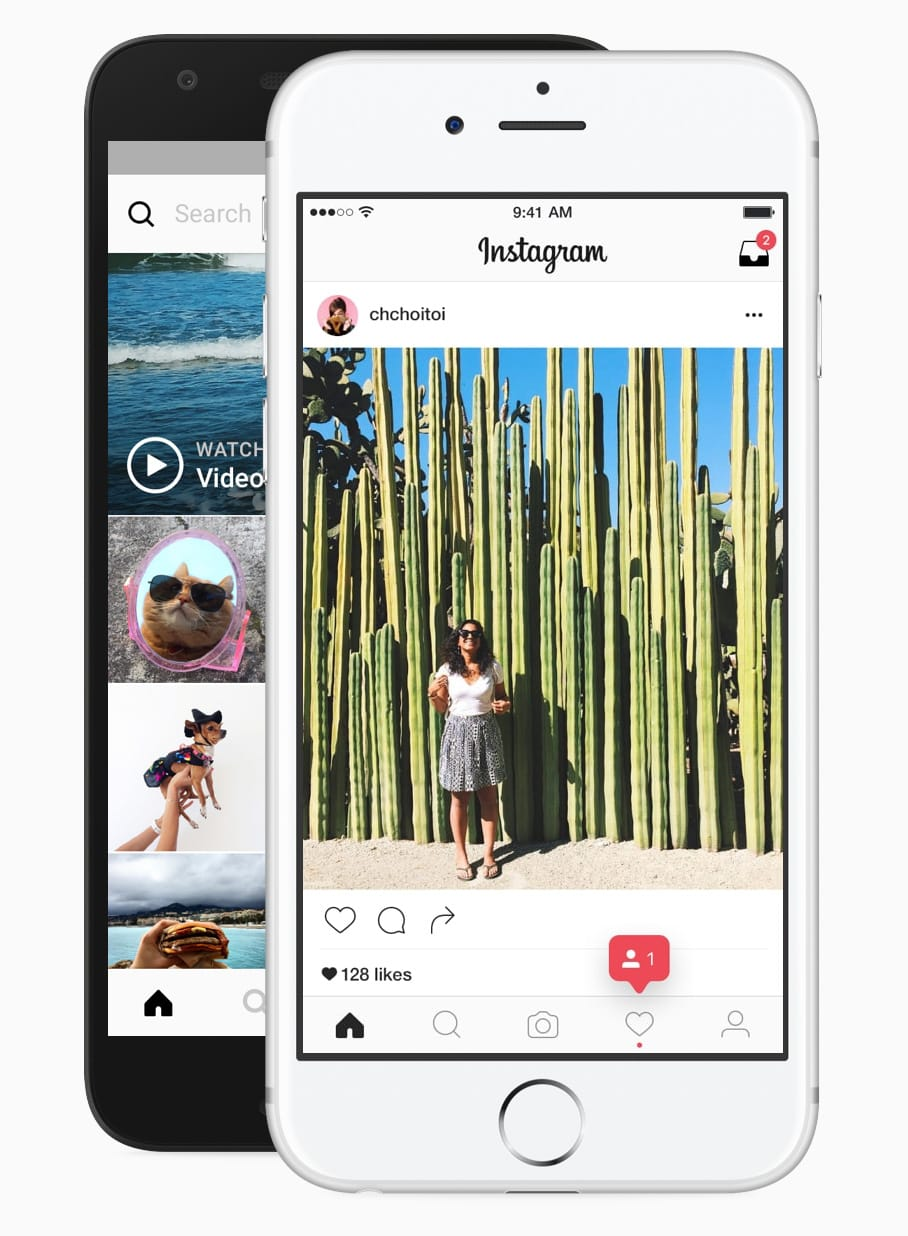
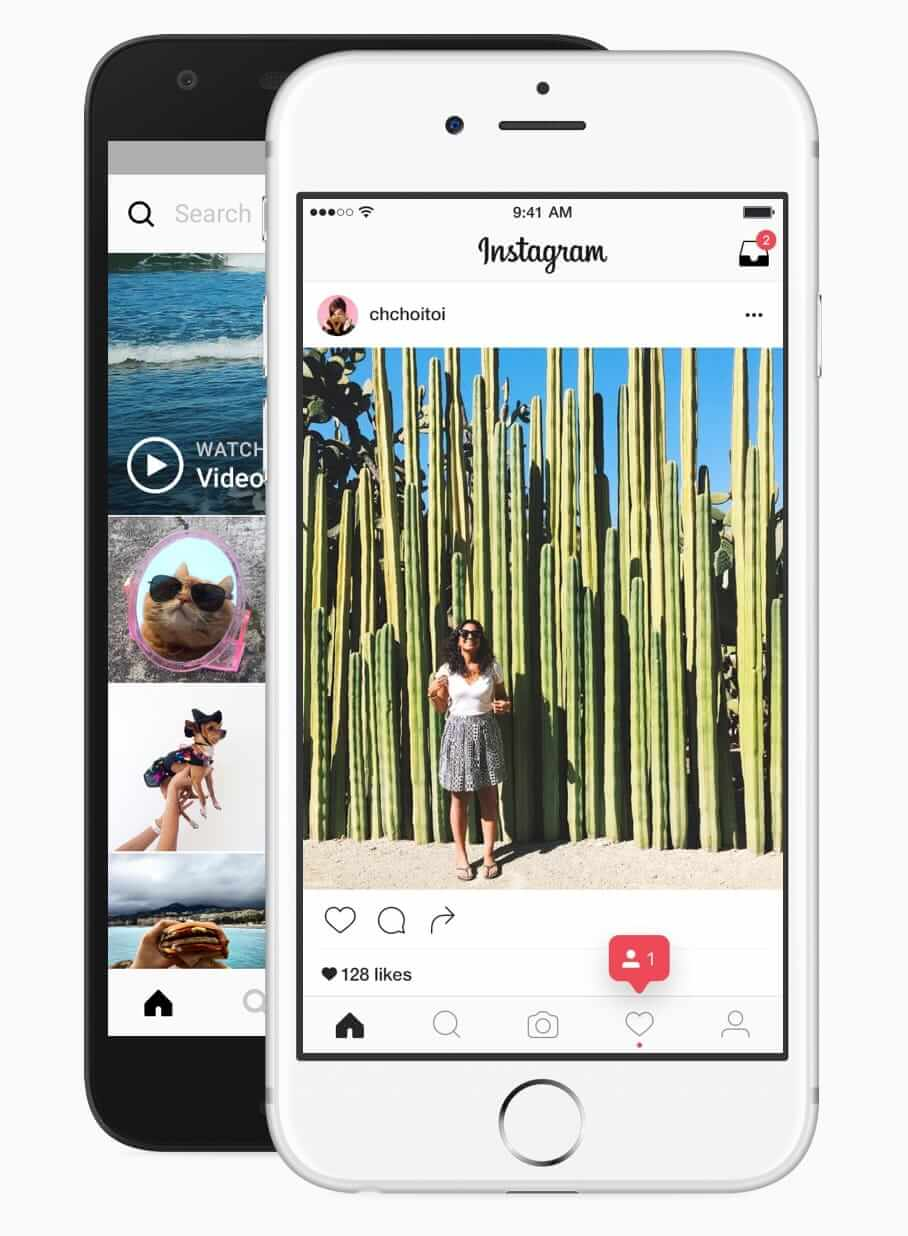
Optimize phone image and add loadtest

diff --git a/src/components/post/add-comment.js b/src/components/post/add-comment.js
@@ -13,7 +13,7 @@ export default function AddComment({ docId, comments, setComments, commentInput 
   const handleSubmitComment = (event) => {
     event.preventDefault();
 
-    setComments([{ displayName, comment }, ...comments]);
+    setComments([...comments, { displayName, comment }]);
     setComment('');
 
     return firebase
